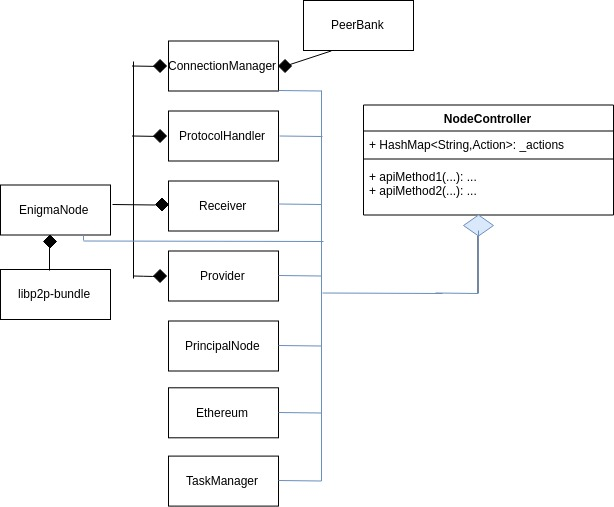
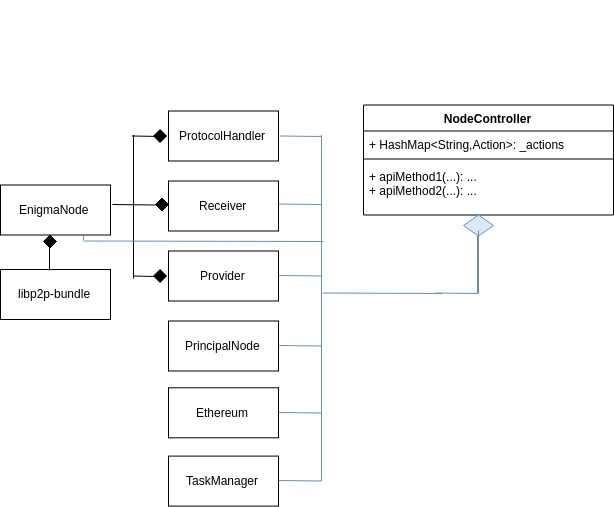
Imporve auto-init of bootstrap + fix docs

diff --git a/src/cli/cli_app.js b/src/cli/cli_app.js
@@ -4,7 +4,6 @@ const path = require('path');
 const readline = require('readline');
 const program = require('commander');
 const Parsers = require('./Parsers');
-const nodeUtils = main.Utils.nodeUtils;
 const EnviornmentBuilder = main.Builder;
 const CoreServer = require('../core/core_server_mock/core_server');
 const cryptography = main.cryptography
@@ -34,7 +33,7 @@ class CLI {
     this._ethereumAddress = null;
     this._autoInit = false;
     this._depositValue = null;
-    this._isBootstrap = false;
+    this._isLonelyNode = false;
 
     this._principalNode = null;
 
@@ -113,14 +112,6 @@ class CLI {
         console.log(addrs);
         console.log('>------------------------<');
       },
-      'peerBank': () =>{
-        const peers = this._node.getAllPeerBank();
-        console.log('peer bank: ');
-        for (let k=0; k<peers.length; k++) {
-          console.log(k);
-        }
-        console.log('>------------------------<');
-      },
       'getConnectedPeers': () =>{
         let peers = this._node.getConnectedPeers();
         console.log('getConnectedPeers: ', peers);
@@ -132,8 +123,6 @@ class CLI {
         peers.forEach((p)=>{
           console.log(p.id.toB58String());
         });
-        //peers = this._node.getSelfPeerBookIds();
-        //console.log('getSelfPeerBookIds: ', peers);
         console.log('>------------------------<');
       },
       'broadcast': (args) =>{
@@ -331,8 +320,8 @@ class CLI {
     .option('--auto-init', 'perform automatic worker initialization ', ()=>{
       this._autoInit = true;
     })
-    .option('--is-bootstrap', 'is the bootstrap node in a system relies only on one bootstrap ', ()=>{
-      this._isBootstrap = true;
+    .option('--lonely-node', 'is it the only node in a system', ()=>{
+      this._isLonelyNode = true;
     })
     .option('--deposit-and-login [value]', 'deposit and login the worker, specify the amount to be deposited, while running automatic initialization', (value)=>{
       this._autoInit = true;
@@ -399,11 +388,6 @@ class CLI {
     const nodeConfig = this._getFinalConfig();
     nodeConfig.extraConfig = {};
 
-    // TODO: REMOVE THIS.. THIS IS A TEMPORARY HACK
-    if (nodeConfig.isBootstrap) {
-      this._isBootstrap = true;
-    }
-
     if (this._randomTasksDbPath || this._principalNode) {
       if (this._principalNode) {
         console.log('Connecting to Principal Node at ' + this._principalNode);
@@ -432,9 +416,8 @@ class CLI {
   }
   async _setup() {
     // TODO: consider what to do with this!!!
-    // The reason it is here to handle the case in which there is only one bootstrap node which need to trigger init
-    // (the init is triggered when connecting in the first time to a bootstrap node)
-    if (this._autoInit && this._isBootstrap) {
+    // The reason it is here to handle the case of one node in the system (mainly for testing purposes)
+    if (this._autoInit && this._isLonelyNode) {
       this._node.initializeWorkerProcess(this._depositValue, (err)=>{
         if (err) {
           console.log('[-] ERROR with automatic worker initialization: ', err);

diff --git a/src/worker/controller/NodeController.js b/src/worker/controller/NodeController.js
@@ -30,6 +30,7 @@ const SubscribeSelfSignKeyTopicPipelineAction = require('./actions/SubscribeSelf
 const GetStateKeysAction = require('./actions/GetStateKeysAction');
 // connectivity
 const BootstrapDiscoveredAction = require('./actions/connectivity/BootstrapDiscoveredAction');
+const NewPeerAction = require('./actions/connectivity/NewPeerAction');
 //tasks
 const GetResultAction = require('./actions/tasks/GetResultAction');
 const StartTaskExecutionAction = require('./actions/tasks/StartTaskExecutionAction');
@@ -109,6 +110,7 @@ class NodeController {
       [NOTIFICATION.GET_STATE_KEYS]: new GetStateKeysAction(this), // Make the PTT process
       // connectivity
       [NOTIFICATION.DISCOVERED]: new BootstrapDiscoveredAction(this),
+      [NOTIFICATION.NEW_PEER_CONNECTED]: new NewPeerAction(this),
       // tasks
       [NOTIFICATION.NEW_TASK_INPUT_ENC_KEY]: new NewTaskEncryptionKeyAction(this), // new encryption key from core jsonrpc response
       [NOTIFICATION.RECEIVED_NEW_RESULT]: new VerifyAndStoreResultAction(this), // very tasks result published stuff and store local
@@ -222,9 +224,6 @@ class NodeController {
   _initEnigmaNode() {
     this._engNode.on('notify', (peer)=>{
       this._logger.info('[+] connected to bootstrap' + peer.id.toB58String());
-      if (this._extraConfig.init) {
-        this.initializeWorkerProcess(this._extraConfig.amount, ()=>{});
-      }
     });
   }
   _initProtocolHandler() {
@@ -304,6 +303,9 @@ class NodeController {
   }
   workerInitDone() {
     this._workerInitDone = true;
+  }
+  getAutoInitParams() {
+    return this._extraConfig.init;
   }
   /** * stop the node */
   async stop() {

diff --git a/src/worker/controller/actions/InitWorkerAction.js b/src/worker/controller/actions/InitWorkerAction.js
@@ -3,12 +3,8 @@
  * TODO:: https://github.com/enigmampc/enigma-p2p#overview-on-start
  * TODO:: this could be implemented better and persist for each step.
  * TODO:: For example, lets say that SyncStat fails, right now it just continues and notifies the user.
- * TODO:: it can keep trying just like PersistentDiscovery
+ * TODO:: it can keep trying
  *
- * * ------------------------------------------------------------------------------
- * BOOTSTRAP + DISCOVERY:
- * Connect to hardcoded well-known Bootstrap nodes to get seeds (i.e peers) from.
- * * ------------------------------------------------------------------------------
  * Sync State:
  * Synchronize the Worker state: Secret contracts bytecode and deltas.
  * * ------------------------------------------------------------------------------

diff --git a/src/worker/handlers/ProtocolHandler.js b/src/worker/handlers/ProtocolHandler.js
@@ -166,7 +166,7 @@ class ProtocolHandler extends EventEmitter {
     if (params.worker.getSelfIdB58Str() === params.peer.id.toB58String()) {
       return;
     }
-    this.notify({'notification': NOTIFICATION['DISCOVERED'], 'params': params});
+    this.notify({notification: NOTIFICATION.DISCOVERED, params: params});
   }
   /** handle when all bootstrap nodes returned peers.
      * */
@@ -216,6 +216,7 @@ class ProtocolHandler extends EventEmitter {
   onPeerConnect(nodeBundle, params) {
     this._logger.debug('[Connection with '+ nodeBundle.peerInfo.id.toB58String()+
             '] new peer : ' + params.peer.id.toB58String());
+    this.notify({notification: NOTIFICATION.NEW_PEER_CONNECTED, params: params});
   }
   /** On peer disconnect
    * @param {PeerBundle} nodeBundle, libp2p bundle

diff --git a/src/common/constants.js b/src/common/constants.js
@@ -9,7 +9,8 @@ module.exports.LOG_CONFIG = {
 };
 module.exports.NODE_NOTIFICATIONS = {
   'INIT_WORKER': 'iw', // init https://github.com/enigmampc/enigma-p2p#overview-on-start
-  'DISCOVERED': 'discovered', // announcing that libp2p build a new PeerInfo from given address.
+  'DISCOVERED': 'discovered', // announcing that libp2p build a new PeerInfo from given address
+  'NEW_PEER_CONNECTED': 'connected', // announcing a new peer has connected
   // (ready to be discovered) -> 'peer:discovery' event.
   'PUBSUB_PUB': 'publish', // publish notification that activates a publish action
   'PUBSUB_SUB': 'subscribe', // subscribe to topic

diff --git a/src/cli/Parsers.js b/src/cli/Parsers.js
@@ -31,15 +31,9 @@ module.exports.port = function(val, params) {
   let parseVal =val.toString();
   if (parseVal === 'B1') {
     parseVal = params.B1Port;
-    // TODO: REMOVE THIS.. THIS IS A TEMPORARY HACK
-    params.configObject.isBootstrap = true;
-    params.changedKeys.push('isBootstrap');
   }
   if (parseVal === 'B2') {
     parseVal = params.B2Port;
-    // TODO: REMOVE THIS.. THIS IS A TEMPORARY HACK
-    params.configObject.isBootstrap = true;
-    params.changedKeys.push('isBootstrap');
   }
   params.configObject.port = parseVal;
   params.changedKeys.push('port');

diff --git a/src/worker/controller/actions/connectivity/NewPeerAction.js b/src/worker/controller/actions/connectivity/NewPeerAction.js
@@ -1,0 +1,21 @@
+const constants = require('../../../../common/constants');
+
+class NewPeerAction {
+  constructor(controller) {
+    this._controller = controller;
+  }
+
+  execute(params) {
+    params = params.params;
+    const callback = params.callback;
+    const autoInit = this._controller.getAutoInitParams();
+
+    // Check if auto init is required
+    if (autoInit) {
+      this._controller.execCmd(constants.NODE_NOTIFICATIONS.INIT_WORKER, {
+        callback: callback,
+        amount: autoInit.amount});
+    }
+  }
+}
+module.exports = NewPeerAction;

diff --git a/configs/template1.js b/configs/template1.js
@@ -10,7 +10,6 @@ module.exports = {
       "multiAddrs" : ["/ip4/0.0.0.0/tcp/"],
       // TODO:: ignored because of constants/namespace
       "namespace" : "ipfs",
-      "bootstrapNodes" : ["/ip4/0.0.0.0/tcp/10300/ipfs/QmcrQZ6RJdpYuGvZqD5QEHAv6qX4BrQLJLQPQUrTrzdcgm"],
     },
     "idPath" : null, // load PeerId, if null-> create one
     // TODO:: ignored currently cuz of implementation

diff --git a/src/worker/controller/actions/ethereum/DepositAction.js b/src/worker/controller/actions/ethereum/DepositAction.js
@@ -1,5 +1,3 @@
-const constants = require('../../../../common/constants');
-
 class DepositAction {
   constructor(controller) {
     this._controller = controller;

diff --git a/docs/ARCHITECTURE.md b/docs/ARCHITECTURE.md
@@ -34,8 +34,6 @@ The P2P implementation of the Enigma Worker. This implementation is part of the 
     - [EnigmaNode](#enigmanode)
     - [P2P Messages](#p2p-messages)
     - [Incoming requests](#incoming-requests)
-    - [PeerBank](#peerbank)
-    - [Discovery and bootstrap](#discovery-and-bootstrap)
     - [State synchronization](#state-synchronization)
     - [PubSub - how to "broadcast"](#pubsub---how-to-%22broadcast%22)
     - [Connecting it all - controller](#connecting-it-all---controller)
@@ -46,7 +44,6 @@ The P2P implementation of the Enigma Worker. This implementation is part of the 
 - [Running the tests](#running-the-tests)
 - [How it works](#how-it-works)
   - [Overview on start](#overview-on-start)
-  - [Persistent Peer Discovery](#persistent-peer-discovery)
   - [Syncing a Worker](#syncing-a-worker)
     - [Consensus](#consensus)
     - [Content Routing](#content-routing)
@@ -127,9 +124,8 @@ Everything is based on notifications and responses to those notifications.
 Notifications in the project come in 2 forms: 
 
 1) [EventEmitter](https://nodejs.org/api/events.html#events_events) 
-    - are used inside [Worker](https://github.com/enigmampc/enigma-p2p/tree/mexico_branch/src/worker) often. This is how the components communicate with the [NodeController](https://github.com/enigmampc/enigma-p2p/blob/6dddeb5e1e3f7d20e0c9c647be8bad7140bc1285/src/worker/controller/NodeController.js#L124)
-    - for example the [ConnectionManager](https://github.com/enigmampc/enigma-p2p/blob/6dddeb5e1e3f7d20e0c9c647be8bad7140bc1285/src/worker/handlers/ConnectionManager.js#L299) will notify on a finished handshake and let the `NodeController` decide [what to do with it](https://github.com/enigmampc/enigma-p2p/blob/6dddeb5e1e3f7d20e0c9c647be8bad7140bc1285/src/worker/controller/NodeController.js#L72).
-
+    - Are used inside [Worker](https://github.com/enigmampc/enigma-p2p/tree/mexico_branch/src/worker) often. This is how the components communicate with the [NodeController](https://github.com/enigmampc/enigma-p2p/blob/6dddeb5e1e3f7d20e0c9c647be8bad7140bc1285/src/worker/controller/NodeController.js#L124).
+    
 2) Channels and communicators
 
     -Explained later in the `Main Controller` section, used for `request/response` type of communication unlike `EventEmitter` where it is stateless. 
@@ -137,7 +133,7 @@ Notifications in the project come in 2 forms:
 
 ### Command pattern and Actions 
 
-Since everything is Event driven it means that we want to trigger different things once some event occurs. The design here is based on classic [Command Pattern](https://en.wikipedia.org/wiki/Command_pattern) but with modidications to fit NodeJS style. 
+Since everything is Event driven it means that we want to trigger different things once some event occurs. The design here is based on classic [Command Pattern](https://en.wikipedia.org/wiki/Command_pattern) but with modifications to fit NodeJS style. 
 Terminology wise, it's called **Actions**. 
 Everywhere in the project `notifications` lead to `Actions`. 
 The rational here is that objects hold the **concrete implementation**  and Actions are the **operational logic**. 
@@ -262,15 +258,6 @@ The messages are used as [concrete classes](https://github.com/enigmampc/enigma-
 
 All the inbound messages get accepted by the [ProtocolHandler](https://github.com/enigmampc/enigma-p2p/blob/6dddeb5e1e3f7d20e0c9c647be8bad7140bc1285/src/worker/handlers/ProtcolHandler.js#L18) class. 
 Building on top of libp2p terminology, different messages are different protocols and each one gets its own [handler](https://github.com/enigmampc/enigma-p2p/blob/6dddeb5e1e3f7d20e0c9c647be8bad7140bc1285/src/worker/handlers/ProtcolHandler.js#L42). 
-
-### PeerBank 
-
-[PeerBank](https://github.com/enigmampc/enigma-p2p/blob/6dddeb5e1e3f7d20e0c9c647be8bad7140bc1285/src/worker/handlers/PeerBank.js#L5) is a class that holds **potential** peers. Once the node connects to some `peer_x` it will be removed from the `PeerBank`.
-This is used to collect peers via `findpeers` message and the `seeds` that come from `Pong` messages.
-
-### Discovery and bootstrap 
-
-The login of what to do is implemented in the [ConnectionManager](https://github.com/enigmampc/enigma-p2p/blob/6dddeb5e1e3f7d20e0c9c647be8bad7140bc1285/src/worker/handlers/ConnectionManager.js) but the operational logic is implemented in [ConsistentDiscoveryAction](https://github.com/enigmampc/enigma-p2p/blob/6dddeb5e1e3f7d20e0c9c647be8bad7140bc1285/src/worker/controller/actions/connectivity/ConsistentDiscoveryAction.js), usage [example](https://github.com/enigmampc/enigma-p2p/blob/6dddeb5e1e3f7d20e0c9c647be8bad7140bc1285/src/worker/controller/NodeController.js#L290).
 
 ### State synchronization
 
